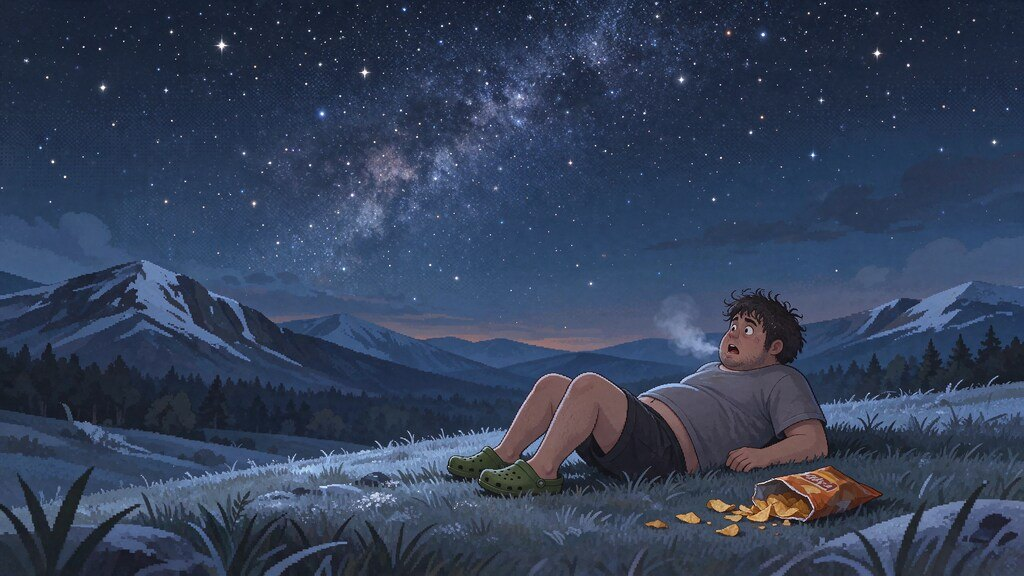
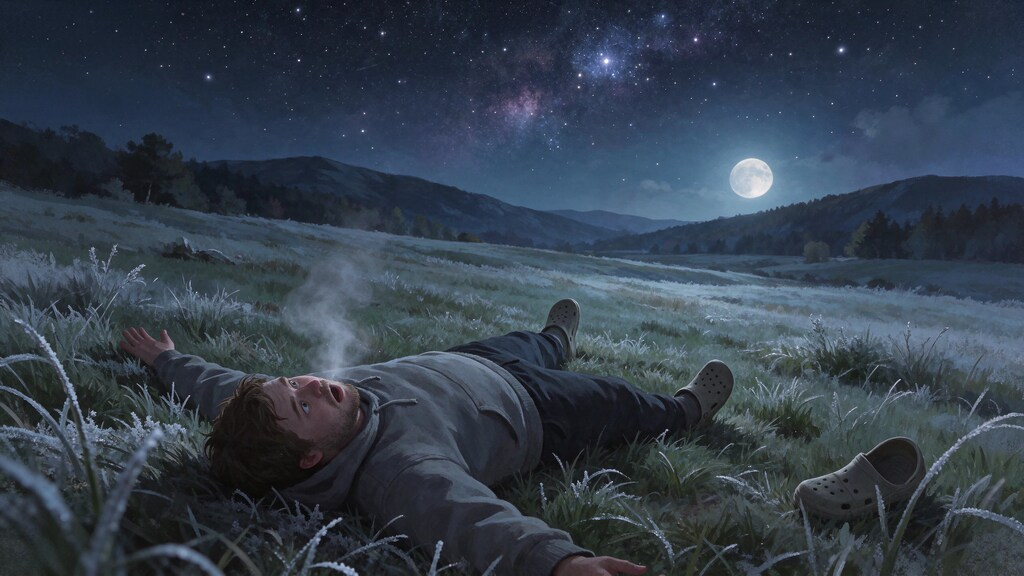
Add character sheet, place finds and new opening art
A You screen with level, four attributes that grow from real activity,
and three upgrades bought with level points. Each visit to a place
reveals the next old thing found there. Opening pictures redrawn.

Claude-Session: https://claude.ai/code/session_017UBDuv2aHeaKTXMiSvkDvS

diff --git a/index.html b/index.html
@@ -39,8 +39,8 @@ p{margin:0}
 .hud-stores small{font:500 .6875rem var(--body);color:var(--muted);white-space:nowrap}
 /* screen tabs */
 .tabs{position:fixed;left:0;right:0;bottom:0;z-index:9;background:var(--surface);border-top:2px solid var(--line);padding-bottom:env(safe-area-inset-bottom, 0px)}
-.tabs div{max-width:30rem;margin:0 auto;display:grid;grid-template-columns:repeat(5,1fr)}
-.tabs button{border:0;border-radius:0;border-top:3px solid transparent;min-height:56px;padding:.3rem .1rem;font:400 1.25rem var(--display);color:var(--muted);margin-top:-2px}
+.tabs div{max-width:30rem;margin:0 auto;display:grid;grid-template-columns:repeat(6,1fr)}
+.tabs button{border:0;border-radius:0;border-top:3px solid transparent;min-height:56px;padding:.3rem .05rem;font:400 1.1rem var(--display);color:var(--muted);margin-top:-2px}
 .tabs button[aria-current="true"]{color:var(--ember);border-top-color:var(--ember)}
 .banner{background:var(--surface);border:1px dashed var(--warn);padding:.6rem .75rem;border-radius:4px;font-size:.875rem;display:flex;gap:.75rem;align-items:center;justify-content:space-between;flex-wrap:wrap}
 .panel{background:var(--surface);border:2px solid var(--line);border-radius:4px;padding:1rem;display:flex;flex-direction:column;gap:.9rem}
@@ -82,6 +82,12 @@ canvas{width:100%;height:220px;display:block;border-radius:4px;background:var(--
 .pips{display:flex;gap:3px} .pips i{width:10px;height:10px;border:2px solid var(--muted);display:block}
 .pips i.on{background:var(--moss);border-color:var(--moss)}
 .mends{list-style:none;margin:.5rem 0 0;padding:0;display:flex;flex-direction:column} .mends li{padding:.8rem 0;border-top:2px solid var(--line);display:flex;flex-direction:column;gap:.4rem} .mends li.ok .small{color:var(--muted)} .mends .hurt{color:var(--warn)}
+.frag{border-left:3px solid var(--ember);padding:.2rem 0 .2rem .75rem;margin:.6rem 0} .frag .say{margin:.25rem 0 0}
+.lore{margin:.5rem 0 0;padding-left:1.4rem;display:flex;flex-direction:column;gap:.6rem;font-family:var(--story);font-style:italic}
+.hero{display:flex;gap:.9rem;align-items:center} .hero img{width:5.5rem;height:5.5rem;object-fit:cover;border:2px solid var(--line);border-radius:4px;flex:none}
+.bar{height:8px;background:var(--raised);border:1px solid var(--line);border-radius:2px;overflow:hidden} .bar i{display:block;height:100%;background:var(--ember)}
+.attrs{list-style:none;margin:.6rem 0 0;padding:0;display:grid;grid-template-columns:1fr 1fr;gap:.75rem} .attrs b{font:400 1.75rem/1 var(--display)} .attrs .bar i{background:var(--moss)}
+.perks{list-style:none;margin:.4rem 0 0;padding:0} .perks li{padding:.7rem 0;border-top:2px solid var(--line);display:flex;gap:.75rem;align-items:center;justify-content:space-between} .perks li > div{min-width:0}
 .cost{font-size:.8125rem;color:var(--muted);font-variant-numeric:tabular-nums}
 .built{color:var(--moss);font:400 1.25rem var(--display);white-space:nowrap}
 .journal li{padding:.55rem 0;border-top:2px solid var(--line);font-family:var(--story);font-size:.9375rem}
@@ -148,10 +154,6 @@ html,body{touch-action:pan-y;overscroll-behavior-x:none;overflow-x:hidden}
       <dl class="status" id="place" style="margin-top:.5rem"></dl>
       <div id="restBox" style="margin-top:.6rem;display:flex;flex-direction:column;gap:.4rem"></div>
     </section>
-    <section>
-      <p class="eyebrow">Since you arrived</p>
-      <div class="stats" id="life" style="margin-top:.5rem"></div>
-    </section>
     <section class="panel">
       <div class="thead"><img class="face sm" src="art/p-pip.jpg" alt="" onerror="this.hidden=true"><h2>Pip's step count</h2></div>
       <p class="small muted">Pip keeps a tally of every step you take, even the ones outside a task. Read today's steps from your phone's Health or Fit app and log them. Every 1,000 counts as a camp chore done and adds one to whichever store is lowest.</p>
@@ -161,6 +163,14 @@ html,body{touch-action:pan-y;overscroll-behavior-x:none;overflow-x:hidden}
         <button id="stepBtn">Log steps</button>
       </div>
       <p class="small num" id="stepLine"></p>
+    </section>
+  </div>
+
+  <div class="gut screen" data-tab="you" hidden>
+    <section class="panel" id="sheet" style="margin-top:1rem"></section>
+    <section>
+      <p class="eyebrow">Since you arrived</p>
+      <div class="stats" id="life" style="margin-top:.5rem"></div>
     </section>
   </div>
 
@@ -198,6 +208,11 @@ html,body{touch-action:pan-y;overscroll-behavior-x:none;overflow-x:hidden}
       <p class="eyebrow" style="padding-top:1rem">Journal</p>
       <ul class="journal" id="journal"></ul>
     </section>
+    <section>
+      <p class="eyebrow">The old empire</p>
+      <p class="small muted" id="loreLine" style="margin-top:.4rem"></p>
+      <ol class="lore" id="lore"></ol>
+    </section>
     <section class="panel">
       <h2>Villager voices</h2>
       <p class="small" id="aiStatus"></p>
@@ -225,7 +240,7 @@ html,body{touch-action:pan-y;overscroll-behavior-x:none;overflow-x:hidden}
 </div>
 
 <nav class="tabs" id="tabs" hidden aria-label="Game screens"><div>
-  <button data-go="board">Board</button><button data-go="camp">Camp</button><button data-go="people">People</button><button data-go="build">Build</button><button data-go="journal">Journal</button>
+  <button data-go="board">Board</button><button data-go="camp">Camp</button><button data-go="you">You</button><button data-go="people">People</button><button data-go="build">Build</button><button data-go="journal">Journal</button>
 </div></nav>
 
 <script>
@@ -291,6 +306,82 @@ const REPAIRS = [
   {k:'hearth', name:'Rebuild the hearth', who:'pip', cost:{stone:6, wood:2}, bad:'The hearth has fallen in and the fire barely holds.', hurt:'Pip sleeps curled around the ash, shivering.', good:'The hearth draws. Pip sleeps stretched out, like someone who expects to wake up warm.'},
   {k:'beds', name:'Raise sleeping benches', who:'dack', cost:{wood:6, fiber:4}, bad:'Everyone sleeps on wet straw on the bare earth.', hurt:'Dack sits up against a post all night instead.', good:'Benches off the ground and dry straw on them. Even Dack lies down.'}
 ];
+// What the player finds at each kind of place, in order: old statues, carvings and writing nobody can read. Things seen,
+// never explained. When a place has nothing new left, the next find comes from the road instead.
+const FINDS = {
+  water: [
+    'Behind the falling water there is a wall, and the wall is carved. Rows of marks from top to bottom, too regular to be cracks. You cannot read a stroke of it. Somebody stood here a long time to make them.',
+    'Two statues stand in the pool up to their knees, worn faceless. Each holds out a cupped hand. The water does not come out of the rock. It comes out of their hands.',
+    'Under the moss on the rim of the basin, the same short line of marks is cut again and again, all the way round. You filled the skins and counted it forty times.',
+    'One of the statues at the spring has had its head turned, long ago and on purpose, to face away from the old road.',
+    'The marks behind the falls are not all the same age. The lowest rows are worn nearly flat. The top row is sharp, and there is stone dust on the ledge under it.',
+    'You put your hand under a statue\'s hand to drink and saw it: a line of small marks cut into the cupped palm, where only someone drinking would ever look.',
+    'The pool is lower today, and there are steps under the water. They go down past where the light reaches.',
+    'The same short line of marks is on the basin rim, on the wall behind the falls, in the statues\' palms and on the first step under the water. You could draw it from memory now. You still cannot read it.'],
+  wood: [
+    'A stone figure stands in the grove with a tree grown clean through it. It was a person once, one arm raised, pointing uphill. The tree is very old. The statue is older.',
+    'Square holes in a rock face among the trees, in rows, each the size of a fist. Something was fitted there. Whatever it was has been taken out carefully, not broken.',
+    'A fallen column under the leaf litter, carved all round with writing that winds from one end to the other. You walked its length twice. It does not seem to have a beginning.',
+    'Deep in the grove the trees stand in straight lines. Nobody has planted here in living memory. Somebody did once, on a grid.',
+    'You walked where the stone figure in the grove is pointing. A hundred paces uphill there is a second one, pointing on.',
+    'The square holes in the rock face hum, very faintly, when the wind is in the north. You put your ear to one. It is not the wind.',
+    'The third pointing figure has no tree through it. Its raised arm is broken off, and the break is clean and pale. That break is not old.',
+    'At the middle of the grove, between the planted rows, there is a square of bare earth where nothing grows. Sight along the pointing figures and every one of them meets here.'],
+  food: [
+    'A ring of low stones in the meadow, each cut with one mark, no two the same. The grass inside the ring is a different green.',
+    'Under the turf where you dug: a floor of small coloured stones. It shows a figure lying on its back in a ring of stars, and people standing round it with their hands raised. You covered it over again.',
+    'A stone seat faces the empty valley, worn smooth by sitting. The writing on its back is cut deeper than any you have seen, as if this was the line they most wanted to last.',
+    'A statue lies face down in the meadow. It did not fall. It was laid there, and stones were set on its back.',
+    'The stone ring in the meadow has a gap. One stone is missing, and the hollow where it stood has not grassed over.',
+    'You uncovered more of the coloured floor. The people standing round the figure are not raising their hands in welcome. They are holding something shut.',
+    'Sit in the stone seat and you face a notch in the far ridge. At dusk the sun goes down exactly in it, and for a moment the deep-cut line on the seat is the only thing lit.',
+    'The statue laid face down has rope marks worn into its shoulders. They dragged it here from somewhere far off, and then made sure it would stay.'],
+  stone: [
+    'Nobody in camp dug this quarry. The cuts are straight as string and a hand deep, a thousand of them. Halfway up the face one block is cut free on five sides and was never taken.',
+    'A stair is cut into the quarry wall. It climbs to the shape of a doorway carved an arm deep into solid rock, and stops. There is nothing behind it. You knocked anyway.',
+    'Lines of writing run across the quarry face, higher than anyone could reach. Either they had ladders, or the floor was once much higher.',
+    'A half-carved giant lies in the quarry floor, still joined to the bedrock along its back. Only the hands are finished. They are open, palms up.',
+    'Each open palm of the half-carved giant holds a shallow bowl of rainwater. There are handprints in the dust around them. They are smaller than yours.',
+    'The doorway carved in the quarry wall has a seam down the middle that you did not see before. It is a hair wide and dead straight.'],
+  fiber: [
+    'Posts stand in the water in pairs, marching out from the bank until they go under. A walkway led somewhere out there. There is nothing out there now but water.',
+    'A stone head stands in the reeds, twice your height, sunk to the chin. Its eyes are open. Its mouth is carved shut with a row of small marks, like stitches, or like writing.',
+    'Flat stones along the bank, each cut with the same three signs. You find eleven. They are the right size, and the right distance apart, to be seats.',
+    'At low water you can see where the walkway posts lead: to a second stone head, far out, facing this one.',
+    'The stone head\'s mouth is not stitched. Up close the marks are writing, one short line, the same line each time. Whatever it says, they closed its mouth with it.'],
+  herbs: [
+    'The hedgerow grows along an old wall. Where the stones show, they are covered in writing so fine you could hide a line with your thumb. It goes on as far as the hedge does.',
+    'A niche in the old wall with a small stone figure in it, no bigger than Wren. Someone has left fresh flowers. Nobody in camp says it was them.',
+    'A stone tablet set in the wall, cracked across. One half is the writing you cannot read. The other half is a picture: a road, an arch, and beyond the arch, nothing carved at all.',
+    'The flowers in the niche have been changed again. This time there is a knotted cord laid beside them, tied in fives.',
+    'You followed the writing along the wall to where the hedge ends. The last line is unfinished. The chisel is still lying under it, rusted to the stone.'],
+  feverbark: [
+    'Two statues taller than the trees stand at the crossing, one each side of the road. Their faces have been chiselled off. The Tallymen have hung their knotted cords from what is left of the hands.'],
+  captive: [
+    'The Tallymen built their stockade against a much older wall. It is covered in rows of marks, four strokes and a slash, from the ground to the top. Theirs are the newest. They were not the first to count here.',
+    'Inside the stockade gate stands a statue the Tallymen have not defaced: a figure at a table, writing. They keep the ground around it swept.'],
+  road: [
+    'A milestone, half sunk beside the path. Under the moss the carving is rows of marks, four strokes and a slash. You have seen that mark before, cut into a door.',
+    'A coin in the mud, worn almost smooth. One face shows an arch. The other shows the same arch, broken. Somebody struck a coin of a ruin.',
+    'One standing stone in a field of frost, with bare wet ground all round its foot. It is warm under your palm.',
+    'A second milestone. It has one row of marks fewer than the last. They are counting down toward something.',
+    'From the high ground you can see the old road run on toward a notch in the mountains. Something there catches the last light. It is the right shape to be a door.']
+};
+const FIND_TOTAL = Object.values(FINDS).reduce((n, a) => n + a.length, 0);
+const findText = id => { const [k, i] = String(id).split(':'); return (FINDS[k] || [])[+i] || ''; };
+const nextFind = res => { for (const k of [res, 'road']){ const i = (FINDS[k] || []).findIndex((_, n) => !frags().includes(k + ':' + n)); if (i >= 0) return k + ':' + i; } return null; };
+// Character sheet. Attributes grow from what the player really does; levels give points to spend on perks.
+const ATTR = [
+  {k:'legs', name:'Legs', d:'Distance walked on tasks', val:() => S.stats.meters / 1000, steps:[0,2,5,10,18,30,45,65,90,120], fmt:v => fmtDist(v * 1000)},
+  {k:'arms', name:'Arms', d:'Workout reps done', val:() => S.stats.reps || 0, steps:[0,30,80,160,280,450,700,1000,1400,1900], fmt:v => Math.round(v) + ' reps'},
+  {k:'grit', name:'Grit', d:'Tasks finished', val:() => S.stats.tasks, steps:[0,3,8,15,25,40,60,85,115,150], fmt:v => v + ' tasks'},
+  {k:'lore', name:'Lore', d:'Old things found', val:() => frags().length, steps:[0,1,3,6,10,15,21,28,36,48], fmt:v => v + ' found'}
+];
+const PERKS = [
+  {k:'back', name:'Strong back', max:3, d:'Carry 1 more each trip, per rank.'},
+  {k:'wind', name:'Second wind', max:2, d:'Workouts need 10% fewer reps, per rank.'},
+  {k:'rest', name:'Earned rest', max:2, d:'Bank one more rest token, per rank. Each rank also hands you one now.'}
+];
 const RANKS = [[0,'Stranger'],[6,'Hauler'],[14,'Forager'],[24,'Scout'],[36,'Warden']];
 const MOVES = [{n:'jumping jacks', base:20}, {n:'squats', base:15}, {n:'push-ups', base:8}, {n:'high knees', base:30}];
 const TINT = {wood:'#B98A5A', water:'#66BDD8', food:'#6FC694', stone:'#A7B0B8', fiber:'#D8C56A', herbs:'#C58BD0'};
@@ -342,8 +433,16 @@ const dayDiff = (a, b) => Math.round((new Date(b + 'T12:00') - new Date(a + 'T12
 /* ---------- derived standing ---------- */
 const standing = () => Object.values(S.trust).reduce((a, b) => a + b, 0);
 const rankIdx = () => { let i = 0; RANKS.forEach((r, n) => { if (standing() >= r[0]) i = n; }); return i; };
-const carry = () => S.built.loom && S.trust.oona >= 5 ? 20 : S.built.loom && S.trust.oona >= 2 ? 10 : 5;
-const carryName = () => carry() === 20 ? "Oona's woven pack" : carry() === 10 ? "Oona's sling" : 'Your two hands';
+const perks = () => S.perks || (S.perks = {});
+const frags = () => S.frags || (S.frags = []);
+const gear = () => S.built.loom && S.trust.oona >= 5 ? 20 : S.built.loom && S.trust.oona >= 2 ? 10 : 5;
+const carry = () => gear() + (perks().back || 0);
+const attrLvl = a => { const v = a.val(); let i = 0; while (i < a.steps.length - 1 && v >= a.steps[i + 1]) i++; return i + 1; };
+const xp = () => Math.round(S.stats.tasks * 10 + S.stats.meters / 100 + (S.stats.reps || 0) / 2 + S.stats.wins * 15 + frags().length * 5 + REPAIRS.filter(r => S.fixed[r.k]).length * 10);
+const lvlAt = n => 30 * n * (n - 1);
+const level = () => { const x = xp(); let n = 1; while (x >= lvlAt(n + 1)) n++; return n; };
+const points = () => level() - 1 - PERKS.reduce((t, k) => t + (perks()[k.k] || 0), 0);
+const carryName = () => gear() === 20 ? "Oona's woven pack" : gear() === 10 ? "Oona's sling" : 'Your two hands';
 const sleep = () => S.trust.maren >= 6 && S.built.leanto ? 'Your own bunk in the lean-to' : REPAIRS.every(r => S.fixed[r.k]) ? 'Inside the hut, on a bench you built' : S.trust.maren >= 3 ? 'The hut floor on cold nights' : S.built.ring ? 'Outside, close to the fire ring' : 'Outside, by the fire';
 const rations = () => S.hungry ? 'Thin for everyone. The stores ran dry.' : standing() >= 5 ? 'A full share' : 'Half a share, eaten last';
 const needs = () => ({food:S.built.smoke ? 1 : 2, water:S.built.cistern ? 1 : 2, wood:1});
@@ -695,7 +794,7 @@ function startMission(){
   startGPS(); keepAwake(); render();
   if (pos) onFix(pos);
 }
-const target = m => Math.round(MOVES[m.move].base * (1 + rankIdx() * 0.25) * (TASKS[m.id].arc || TASKS[m.id].rescue ? 1.5 : 1));
+const target = m => Math.round(MOVES[m.move].base * (1 + rankIdx() * 0.25) * (TASKS[m.id].arc || TASKS[m.id].rescue ? 1.5 : 1) * (1 - 0.1 * (perks().wind || 0)));
 function arrive(){
   const m = S.mission; buzz();
   const pk = placeKey(TASKS[m.id]), had = places()[pk];
@@ -703,18 +802,20 @@ function arrive(){
     places()[pk] = {site:m.site, oneWay:m.oneWay, name:m.name, real:!!m.real, onTrail:!!m.onTrail, route:m.route || null, routeM:m.routeM || 0, found:today()};
     note('You found the ' + placeName(pk) + (m.name ? ' at ' + m.name : '') + '. It is on your map now, and it will be there next time.');
   }
+  { const f = nextFind(TASKS[m.id].res); if (f){ m.frag = f; frags().push(f); note((f.startsWith('road') ? 'On the way to the ' : 'At the ') + SITE[TASKS[m.id].res] + ': ' + findText(f)); } }
   if (TASKS[m.id].battle){ m.phase = 'battle'; m.reps = 0; m.bt0 = 0; }
   else m.phase = 'back';
   save(); render();
 }
 function endBattle(won){
   const m = S.mission; m.won = won; m.phase = 'back'; m.lastFix = pos ? {lat:pos.lat, lng:pos.lng, t:Date.now()} : null;
+  S.stats.reps = (S.stats.reps || 0) + (m.reps || 0);
   if (won) S.stats.wins++;
   buzz(); save(); render();
 }
 function unload(){
   const m = S.mission, T = TASKS[m.id], planned = m.oneWay * 2, elapsed = (Date.now() - m.t0) / 1000;
-  const before = {sleep:sleep(), carry:carry(), rank:rankIdx()};
+  const before = {sleep:sleep(), carry:carry(), rank:rankIdx(), lvl:level()};
   const notes = [];
   const speed = elapsed > 0 ? m.meters / elapsed : 0, simd = pos && pos.sim;
   let tr = T.tr, haul = Math.min(carry(), Math.max(1, Math.round(planned / 100)));
@@ -743,12 +844,13 @@ function unload(){
   { const N = neglect(); N.lastHelp = today(); N.stage = 0; }
   const steps = Math.round(m.meters / 0.78);
   S.stats.meters += m.meters; S.stats.tasks++; S.stats.steps += steps;
-  S.last = {id:m.id, haul, tr, meters:m.meters, ms:Date.now() - m.t0, steps, notes, freed};
-  if (S.stats.tasks % 5 === 0 && neglect().rests < 3){ neglect().rests++; note('Maren says you have earned a rest when you need one. You have ' + neglect().rests + ' banked.'); }
+  S.last = {id:m.id, haul, tr, meters:m.meters, ms:Date.now() - m.t0, steps, notes, freed, frag:m.frag};
+  if (S.stats.tasks % 5 === 0 && neglect().rests < 3 + (perks().rest || 0)){ neglect().rests++; note('Maren says you have earned a rest when you need one. You have ' + neglect().rests + ' banked.'); }
   S.mission = null;
   if (sleep() !== before.sleep) note('Maren moved your bedroll without a word. Tonight you sleep here: ' + sleep().toLowerCase() + '.');
   if (carry() !== before.carry) note('Oona threw something at your chest. ' + carryName() + '. You can carry ' + carry() + ' a trip now.');
   if (rankIdx() !== before.rank) note('Somebody called you ' + RANKS[rankIdx()][1] + ' instead of Stranger, and nobody corrected them.');
+  if (level() !== before.lvl) note('Something has changed in you. Level ' + level() + '. You have a point to spend on the You screen.');
   if (S.stats.tasks === 1) note('First task done. Nobody thanked you. Somebody did leave a bowl by the embers.');
   newDay(); buzz();
   if (wake){ try { wake.release(); } catch {} wake = null; }
@@ -802,7 +904,7 @@ function worldBrief(){
   return `This is a survival story game. Setting: a cold valley with no machines, no electricity and no writing beyond tally marks. Eleven survivors fled a river town burned by raiders called the Tallymen, after a stranger they trusted betrayed them. They camp at a ruined waystation called Hollow Ash: one hut, a fire, few stores. The Tallymen hold the crossings and commons and take a share from every settlement.
 The player is "the Stranger", who appeared from another world (ours), out of shape and wearing Crocs, and is allowed to stay only by working: hauling water, wood, food, stone and reeds on foot.
 The camp: Maren (leader, ferrywoman, widowed in the escape), Tobiah (old healer with a ruined knee), Isla (mother of the infant Wren), Dack (blunt hunter who distrusts the Stranger), Pip (ten-year-old orphan who counts the Stranger's steps), Oona (weaver who lost her loom).
-Facts right now. Stores: ${Object.entries(RES).map(([k, n]) => S.stock[k] + ' ' + n.toLowerCase()).join(', ')}. Built so far: ${BUILDS.filter(b => S.built[b.k]).map(b => b.name).join(', ') || 'nothing but the hut'}. Inside the hut, still broken: ${REPAIRS.filter(r => !S.fixed[r.k]).map(r => r.bad + ' ' + r.hurt).join(' ') || 'nothing, the Stranger mended all of it'}. The Stranger sleeps: ${sleep()}. The Stranger is called: ${RANKS[rankIdx()][1]}. Tasks the Stranger has completed: ${S.stats.tasks}. ${arc}${takenList().length ? ' ' + names(takenList()) + (takenList().length > 1 ? ' are' : ' is') + ' held captive in the Tallymen stockade, taken in a raid after the Stranger stayed away from the work for days. The camp is frightened and wants them back.' : neglect().stage ? ' The Stranger has stayed away from the work for days and Tallymen scouts are watching the camp.' : ''}`;
+Facts right now. Stores: ${Object.entries(RES).map(([k, n]) => S.stock[k] + ' ' + n.toLowerCase()).join(', ')}. Built so far: ${BUILDS.filter(b => S.built[b.k]).map(b => b.name).join(', ') || 'nothing but the hut'}. What the Stranger has noticed about the old empire so far: ${frags().slice(-3).map(findText).join(' ') || 'nothing yet'} Nobody in camp can read the old writing or explain these things. They are uneasy about them, do not invent explanations, and would rather talk about the work. Inside the hut, still broken: ${REPAIRS.filter(r => !S.fixed[r.k]).map(r => r.bad + ' ' + r.hurt).join(' ') || 'nothing, the Stranger mended all of it'}. The Stranger sleeps: ${sleep()}. The Stranger is called: ${RANKS[rankIdx()][1]}. Tasks the Stranger has completed: ${S.stats.tasks}. ${arc}${takenList().length ? ' ' + names(takenList()) + (takenList().length > 1 ? ' are' : ' is') + ' held captive in the Tallymen stockade, taken in a raid after the Stranger stayed away from the work for days. The camp is frightened and wants them back.' : neglect().stage ? ' The Stranger has stayed away from the work for days and Tallymen scouts are watching the camp.' : ''}`;
 }
 function charRules(k){
   const p = PEOPLE[k], t = S.trust[k];
@@ -861,7 +963,7 @@ const INTRO = [
   {img:'couch', eye:'Before', alt:'You, on the couch, as the living room dissolves into cold grass and stars',
    html:'<p>You are on the couch with a bag of chips on your chest, half watching something. You have not stood up in hours.</p><p>The room tilts.</p>'},
   {img:'intro-wake', eye:'Somewhere else', alt:'You, flat on your back in frosted grass under a huge sky of stars',
-   html:'<p>When it stops you are lying in cold grass under a sky with no wires in it. No street, no hum, no light but stars.</p><p>You are out of breath from doing nothing, and all you have on your feet is a pair of Crocs.</p>'},
+   html:'<p>When it stops you are lying in cold grass under a sky with no wires in it. No street, no hum, no light but stars.</p><p>You are out of breath from doing nothing, and all you have on your feet is a pair of foam clogs.</p>'},
   {img:'intro-ridge', eye:'The ridge', alt:'You, trudging uphill through frosty grass toward a thread of smoke on a far ridge at dawn',
    html:'<p>By dawn you can see one thread of smoke on a far ridge. It is the only sign of anyone.</p><p>It is the longest walk you have taken in years. You stop four times. You keep going.</p>'},
   {img:'intro-spear', eye:'Hollow Ash', alt:'A woman in a worn cloak levels a spear at you while the camp watches from the fire',
@@ -1005,6 +1107,7 @@ function render(){
     el.innerHTML = `${pic(out ? 's-' + artFor(T) : 'village', 'scene strip', out ? 'The ' + SITE[T.res] : 'Hollow Ash')}<p class="eyebrow">${out ? 'Outbound' : 'Homeward'}</p>
       <h2>${out ? 'Get to ' + place : T.rescue ? (m.won ? 'You have ' + PEOPLE[takenList()[0] || 'pip'].name + '. Walk them home.' : 'Driven off. Get back to camp.') : T.arc ? 'You have the feverbark. Get it home.' : 'Loaded up. Carry it back to Hollow Ash.'}</h2>
       <p class="small" id="taskLine"><b>${esc(T.t)}</b>, for ${PEOPLE[T.g].name}. ${out ? (T.battle === 'dare' ? 'When you get there the dare starts: a short workout, then home.' : T.battle ? 'When you get there you will have to hold your ground: a short workout, then home.' : 'Nothing to do there but arrive. Your phone buzzes when you reach it, then you carry the load home.') : T.rescue || T.arc ? 'Reach camp to finish.' : 'Reach camp to finish. What you carry goes into the stores.'}</p>
+      ${!out && m.frag != null ? `<div class="frag"><p class="eyebrow">${String(m.frag).startsWith('road') ? 'Found on the way' : 'Found at the ' + SITE[T.res]}</p><p class="say">${esc(findText(m.frag))}</p></div>` : ''}
       <div class="cmprow"><div class="grow"><div class="big num" id="dBig">…</div><p class="muted" id="dLine"></p></div>
         ${practice ? '' : '<div class="cmp" id="cmp" aria-hidden="true"><i class="cmp-n">N</i><svg id="cmpArrow" viewBox="0 0 60 60" width="64" height="64"><path d="M30 6 L46 46 L30 37 L14 46 Z"/></svg></div>'}</div>
       ${practice ? '' : '<p class="small" id="cmpLine" aria-live="polite"></p><button id="cmpBtn" hidden>Turn on the compass</button>'}
@@ -1050,7 +1153,7 @@ function render(){
     if (L){
       const T = TASKS[L.id];
       h += `<div class="result"><p class="eyebrow">Back at camp</p><h2 class="num">${T.rescue ? (L.freed ? PEOPLE[L.freed].name + ' is home' : 'Driven off at the stockade') : T.arc ? 'Feverbark delivered' : '+' + L.haul + ' ' + RES[T.res].toLowerCase()}</h2>
-        <p class="small num">${fmtDist(L.meters)} in ${fmtTime(L.ms)}, about ${L.steps.toLocaleString()} steps.${L.tr > 0 && !T.arc ? ' ' + PEOPLE[T.g].name + ' trusts you a little more.' : ''}${L.notes.length ? ' ' + L.notes.join('. ') + '.' : ''}</p></div>`;
+        <p class="small num">${fmtDist(L.meters)} in ${fmtTime(L.ms)}, about ${L.steps.toLocaleString()} steps.${L.tr > 0 && !T.arc ? ' ' + PEOPLE[T.g].name + ' trusts you a little more.' : ''}${L.notes.length ? ' ' + L.notes.join('. ') + '.' : ''}</p>${L.frag != null ? `<div class="frag"><p class="eyebrow">${String(L.frag).startsWith('road') ? 'Found on the way' : 'Found at the ' + SITE[T.res]}</p><p class="say">${esc(findText(L.frag))}</p></div>` : ''}</div>`;
     }
     const arc = S.fever && !S.fever.done && !S.fever.failed, tk = takenList(), CS = campState();
     h += `<p class="eyebrow">The board, day ${dayDiff(S.first, today()) + 1}</p><h2>${tk.length ? 'The Tallymen have ' + names(tk) : arc ? 'Wren is burning up' : CS.mood === 'Marked' ? 'There is a mark on the hut door' : CS.mood === 'Watched' ? 'Scouts on the ridge' : S.hungry ? 'The pot came up empty' : 'What the camp needs from you'}</h2>
@@ -1187,6 +1290,21 @@ function renderCamp(){
       if (REPAIRS.every(x => S.fixed[x.k])){ addTrust('maren', 1); note('The hut is whole: roof, shutters, hearth and beds. Maren walked the length of it twice and then told you where you sleep tonight. Inside.'); }
       newDay(); render();
     }); }
+  { const lv = level(), x = xp(), lo = lvlAt(lv), hi = lvlAt(lv + 1), pts = points();
+    $('sheet').innerHTML = `<div class="hero"><img src="art/hero.jpg" alt="You, in a grey hoodie with a blanket over one shoulder" onerror="this.hidden=true"><div class="grow"><p class="eyebrow">${RANKS[r][1]}</p><h2>Level ${lv}</h2>
+        <div class="bar" role="img" aria-label="${x - lo} of ${hi - lo} experience to level ${lv + 1}"><i style="width:${Math.round((x - lo) / (hi - lo) * 100)}%"></i></div><p class="small muted num">${x} XP. ${hi - x} more to level ${lv + 1}.</p></div></div>
+      <ul class="attrs">${ATTR.map(a => { const L = attrLvl(a), v = a.val(), nx = a.steps[L], pv = a.steps[L - 1]; return `<li><span class="small muted">${a.name}</span><br><b class="num">${L}</b>
+        <div class="bar"><i style="width:${nx == null ? 100 : Math.round((v - pv) / (nx - pv) * 100)}%"></i></div><span class="small muted num">${a.d}: ${a.fmt(v)}${nx == null ? '' : ', next at ' + a.fmt(nx)}</span></li>`; }).join('')}</ul>
+      <dl class="status" style="margin-top:.9rem"><dt>Carries</dt><dd class="num">${carryName()}, ${carry()} a trip</dd><dt>Wears</dt><dd>A hoodie, sweatpants and foam clogs from another world</dd><dt>Sleeps</dt><dd>${sleep()}</dd><dt>Eats</dt><dd>${rations()}</dd></dl>
+      <p class="eyebrow" style="margin-top:1rem">Upgrades</p><p class="small ${pts > 0 ? '' : 'muted'}">${pts > 0 ? 'You have ' + pts + (pts === 1 ? ' point' : ' points') + ' to spend.' : 'You earn one point each level. XP comes from tasks, distance, workouts, repairs and what you find.'}</p>
+      <ul class="perks">${PERKS.map(k => { const n = perks()[k.k] || 0; return `<li><div><b>${k.name}</b> <span class="small muted num">${n} of ${k.max}</span><div class="small">${k.d}</div></div>${n >= k.max ? '<span class="built">Full</span>' : `<button data-perk="${k.k}" ${pts > 0 ? 'class="primary"' : 'disabled'}>Take</button>`}</li>`; }).join('')}</ul>`;
+    $('sheet').querySelectorAll('button[data-perk]').forEach(btn => btn.onclick = () => {
+      const k = PERKS.find(q => q.k === btn.dataset.perk), n = perks()[k.k] || 0; if (points() < 1 || n >= k.max) return;
+      perks()[k.k] = n + 1; if (k.k === 'rest') neglect().rests++;
+      note('You took ' + k.name + (n ? ' again' : '') + '. ' + k.d.split(',')[0] + '.'); save(); render();
+    });
+    $('loreLine').textContent = frags().length ? frags().length + ' of ' + FIND_TOTAL + ' found. Each place has its own, and you find one each time you reach it.' : 'Nothing yet. Each time you reach a place on a task, you find something left by whoever was here before. Nobody can read any of it.';
+    $('lore').innerHTML = frags().map(i => `<li>${esc(findText(i))}</li>`).join(''); }
   $('place').innerHTML = `<dt>Standing</dt><dd class="num">${RANKS[r][1]}, ${standing()} trust${next ? '. ' + (next[0] - standing()) + ' more to ' + next[1] : ''}</dd><dt>You sleep</dt><dd>${sleep()}</dd><dt>You eat</dt><dd>${rations()}</dd><dt>You carry</dt><dd class="num">${carryName()}, ${carry()} a trip</dd><dt>The camp</dt><dd><b>${CS.mood}.</b> ${CS.line}</dd>`;
   { const N = neglect();
     $('restBox').innerHTML = (CS.warn ? `<p class="small alarm">${CS.warn}</p>` : '') + `<button id="restBtn" ${N.rests < 1 || resting() ? 'disabled' : ''}>${resting() ? 'Resting with Maren\'s leave' : 'Tell Maren you need two rest days (' + N.rests + ' banked)'}</button>
